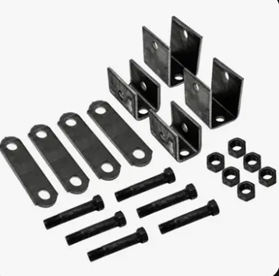
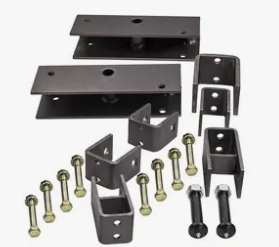
Replace copyrighted hanger-kit images with clean owned ones
The Specialty and Single-Axle hanger-kit images had copyright concerns. Replaced them with clean white-background hanger-kit photos reused from the tandem/triple-axle folders, and removed the fake brown wood-grain backdrop styling (a07955 gradient + mix-blend) that those two pages applied.

diff --git a/src/app/categories/trailer-suspension-parts/hangers-kits/single-axle-hanger-kits/page.tsx b/src/app/categories/trailer-suspension-parts/hangers-kits/single-axle-hanger-kits/page.tsx
@@ -22,18 +22,11 @@ export default function SingleAxleHangerKitsPage() {
             key={img}
             className="bg-white border border-slate-200 rounded-lg shadow-sm p-4 flex flex-col items-center w-full"
           >
-            <div
-              className="w-[88%] rounded-md p-2 mb-2 flex justify-center"
-              style={{
-                backgroundColor: "#a07955",
-                backgroundImage:
-                  "linear-gradient(90deg, #b89470 0%, #a47b55 48%, #6a462e 100%), repeating-linear-gradient(0deg, rgba(255,255,255,0.06) 0px, rgba(255,255,255,0.06) 1px, rgba(0,0,0,0.04) 2px, rgba(0,0,0,0.04) 3px)",
-              }}
-            >
+            <div className="w-[88%] rounded-md p-2 mb-2 flex justify-center bg-white">
               <img
                 src={`/images/hangerkits/singleaxlehangerkits/${encodeURIComponent(img)}`}
                 alt={`Single axle hanger kit ${idx + 1}`}
-                className="h-[8.4rem] w-full object-contain object-center mix-blend-multiply brightness-110"
+                className="h-[8.4rem] w-full object-contain object-center"
               />
             </div>
             

diff --git a/src/app/categories/trailer-suspension-parts/hangers-kits/specialty-hanger-kits/page.tsx b/src/app/categories/trailer-suspension-parts/hangers-kits/specialty-hanger-kits/page.tsx
@@ -17,18 +17,11 @@ export default function SpecialtyHangerKitsPage() {
             key={img}
             className="bg-white border border-slate-200 rounded-lg shadow-sm p-4 flex flex-col items-center w-full"
           >
-            <div
-              className="w-[88%] rounded-md p-2 mb-2 flex justify-center"
-              style={{
-                backgroundColor: "#a07955",
-                backgroundImage:
-                  "linear-gradient(90deg, #b89470 0%, #a47b55 48%, #6a462e 100%), repeating-linear-gradient(0deg, rgba(255,255,255,0.06) 0px, rgba(255,255,255,0.06) 1px, rgba(0,0,0,0.04) 2px, rgba(0,0,0,0.04) 3px)",
-              }}
-            >
+            <div className="w-[88%] rounded-md p-2 mb-2 flex justify-center bg-white">
               <img
                 src={`/images/hangerkits/Speciality%20hanger%20Kits/${encodeURIComponent(img)}`}
                 alt={`Specialty hanger kit ${idx + 1}`}
-                className="h-[8.4rem] w-full object-contain object-center mix-blend-multiply brightness-110"
+                className="h-[8.4rem] w-full object-contain object-center"
               />
             </div>
             